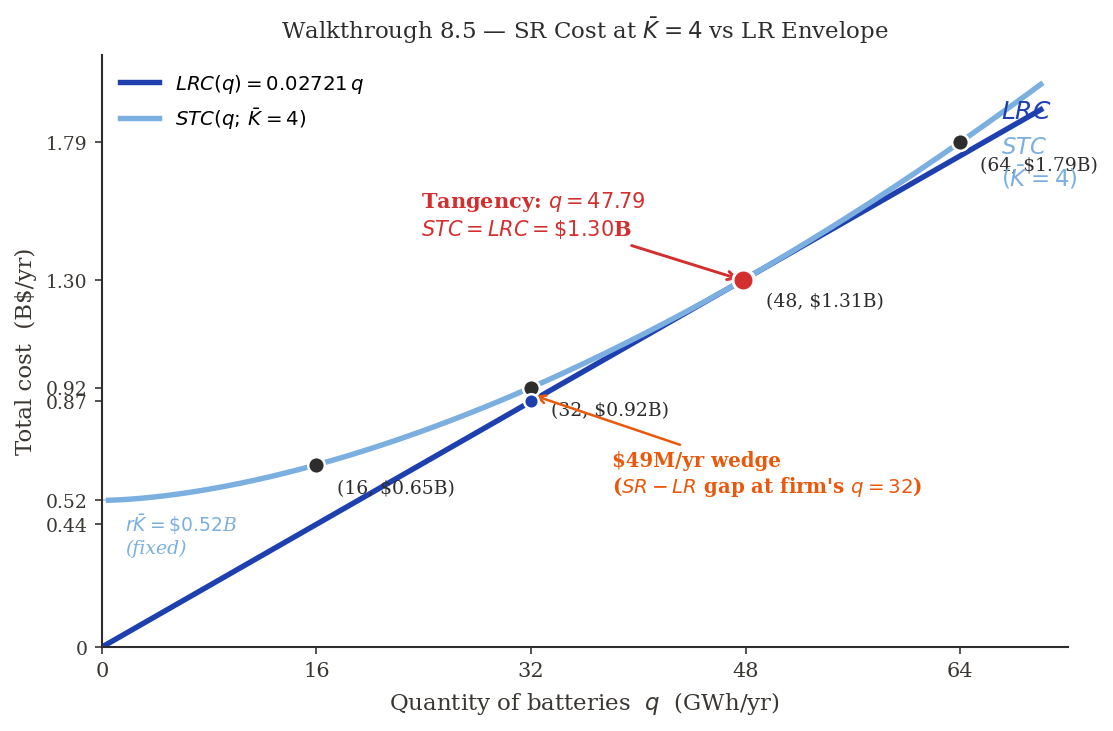
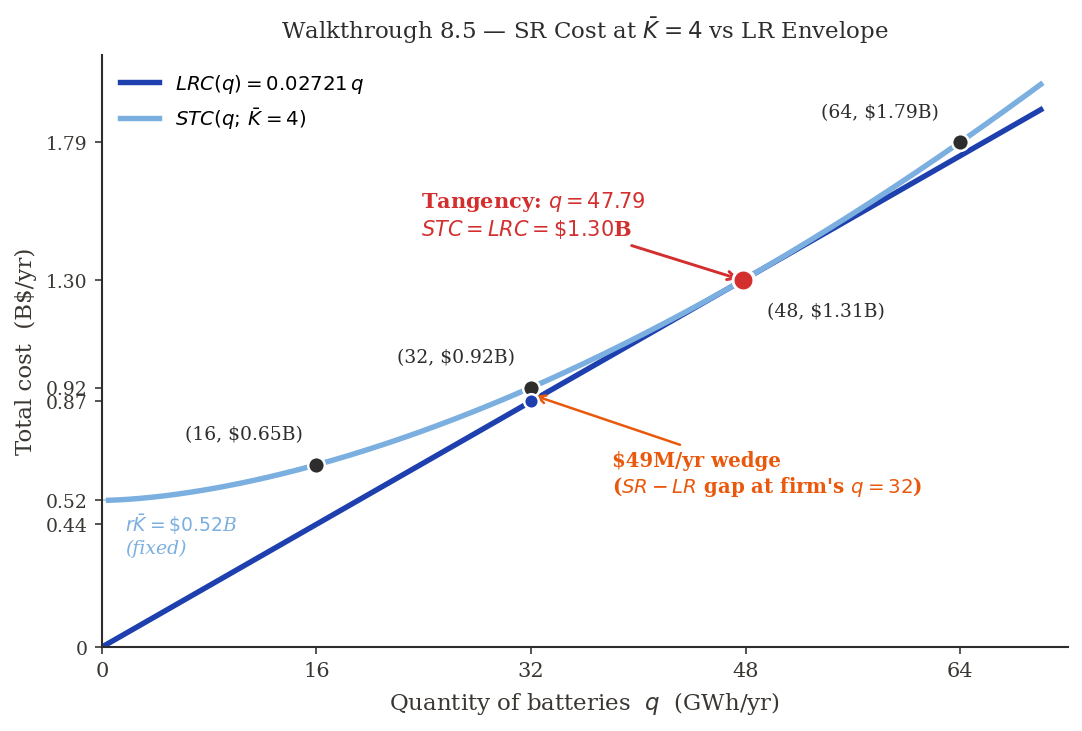
ch08: fix overlapping labels on the W8.5 SR-vs-LR cost figure - drop the redundant inline curve end-labels (the legend already names both) and retune the four point-annotation offsets

diff --git a/econ2316/ch08-costs-of-production/figures/_generate_figures.py b/econ2316/ch08-costs-of-production/figures/_generate_figures.py
@@ -1999,10 +1999,19 @@ def fig_engines_w85_stc_kbar4():
         (48, 1.306),  # approx tangency
         (64, 1.790),
     ]
+    # Offsets tuned per point: (16) sits ABOVE-left so it clears the LRC line
+    # below it; (32) sits above-left to clear the wedge arrow; (48) and (64)
+    # sit below-right in open space.
+    pt_offsets = {16: (-1.0, 0.075, "right", "bottom"),
+                  32: (-1.2, 0.075, "right", "bottom"),
+                  48: (1.6, -0.085, "left", "top"),
+                  64: (-1.6, 0.075, "right", "bottom")}   # above-left: below-right crosses LRC
     for qx, qy in w85_points:
         ax.plot(qx, qy, "o", **pt_style)
+        dx, dy, ha, va = pt_offsets[qx]
         ax.annotate(f"({qx}, \\${qy:.2f}B)", xy=(qx, qy),
-                    xytext=(qx + 1.5, qy - 0.10), fontsize=9, color=PRIMARY)
+                    xytext=(qx + dx, qy + dy), fontsize=9, color=PRIMARY,
+                    ha=ha, va=va)
 
     # ---- SR-LR tangency at q = 47.79
     q_tan = 47.79
@@ -2029,11 +2038,9 @@ def fig_engines_w85_stc_kbar4():
                 fontweight="bold",
                 arrowprops=dict(arrowstyle="->", color="#EA580C", lw=1.2))
 
-    # ---- Curve labels at right
-    ax.text(67, LRC(67) + 0.05, "$LRC$", fontsize=12, color=LR_BLUE,
-            fontweight="bold")
-    ax.text(67, STC(67) - 0.08, "$STC$\n$(\\bar K = 4)$", fontsize=11, color=SR_BLUE,
-            fontweight="bold", va="top")
+    # ---- Curve end-labels REMOVED 2026-07-23: the upper-left legend already
+    # names both curves, and these duplicates sat on top of the (64, \$1.79B)
+    # annotation and its marker in the top-right corner.
 
     # ---- Axes formatting
     ax.set_xlabel("Quantity of batteries  $q$  (GWh/yr)", fontsize=11)
